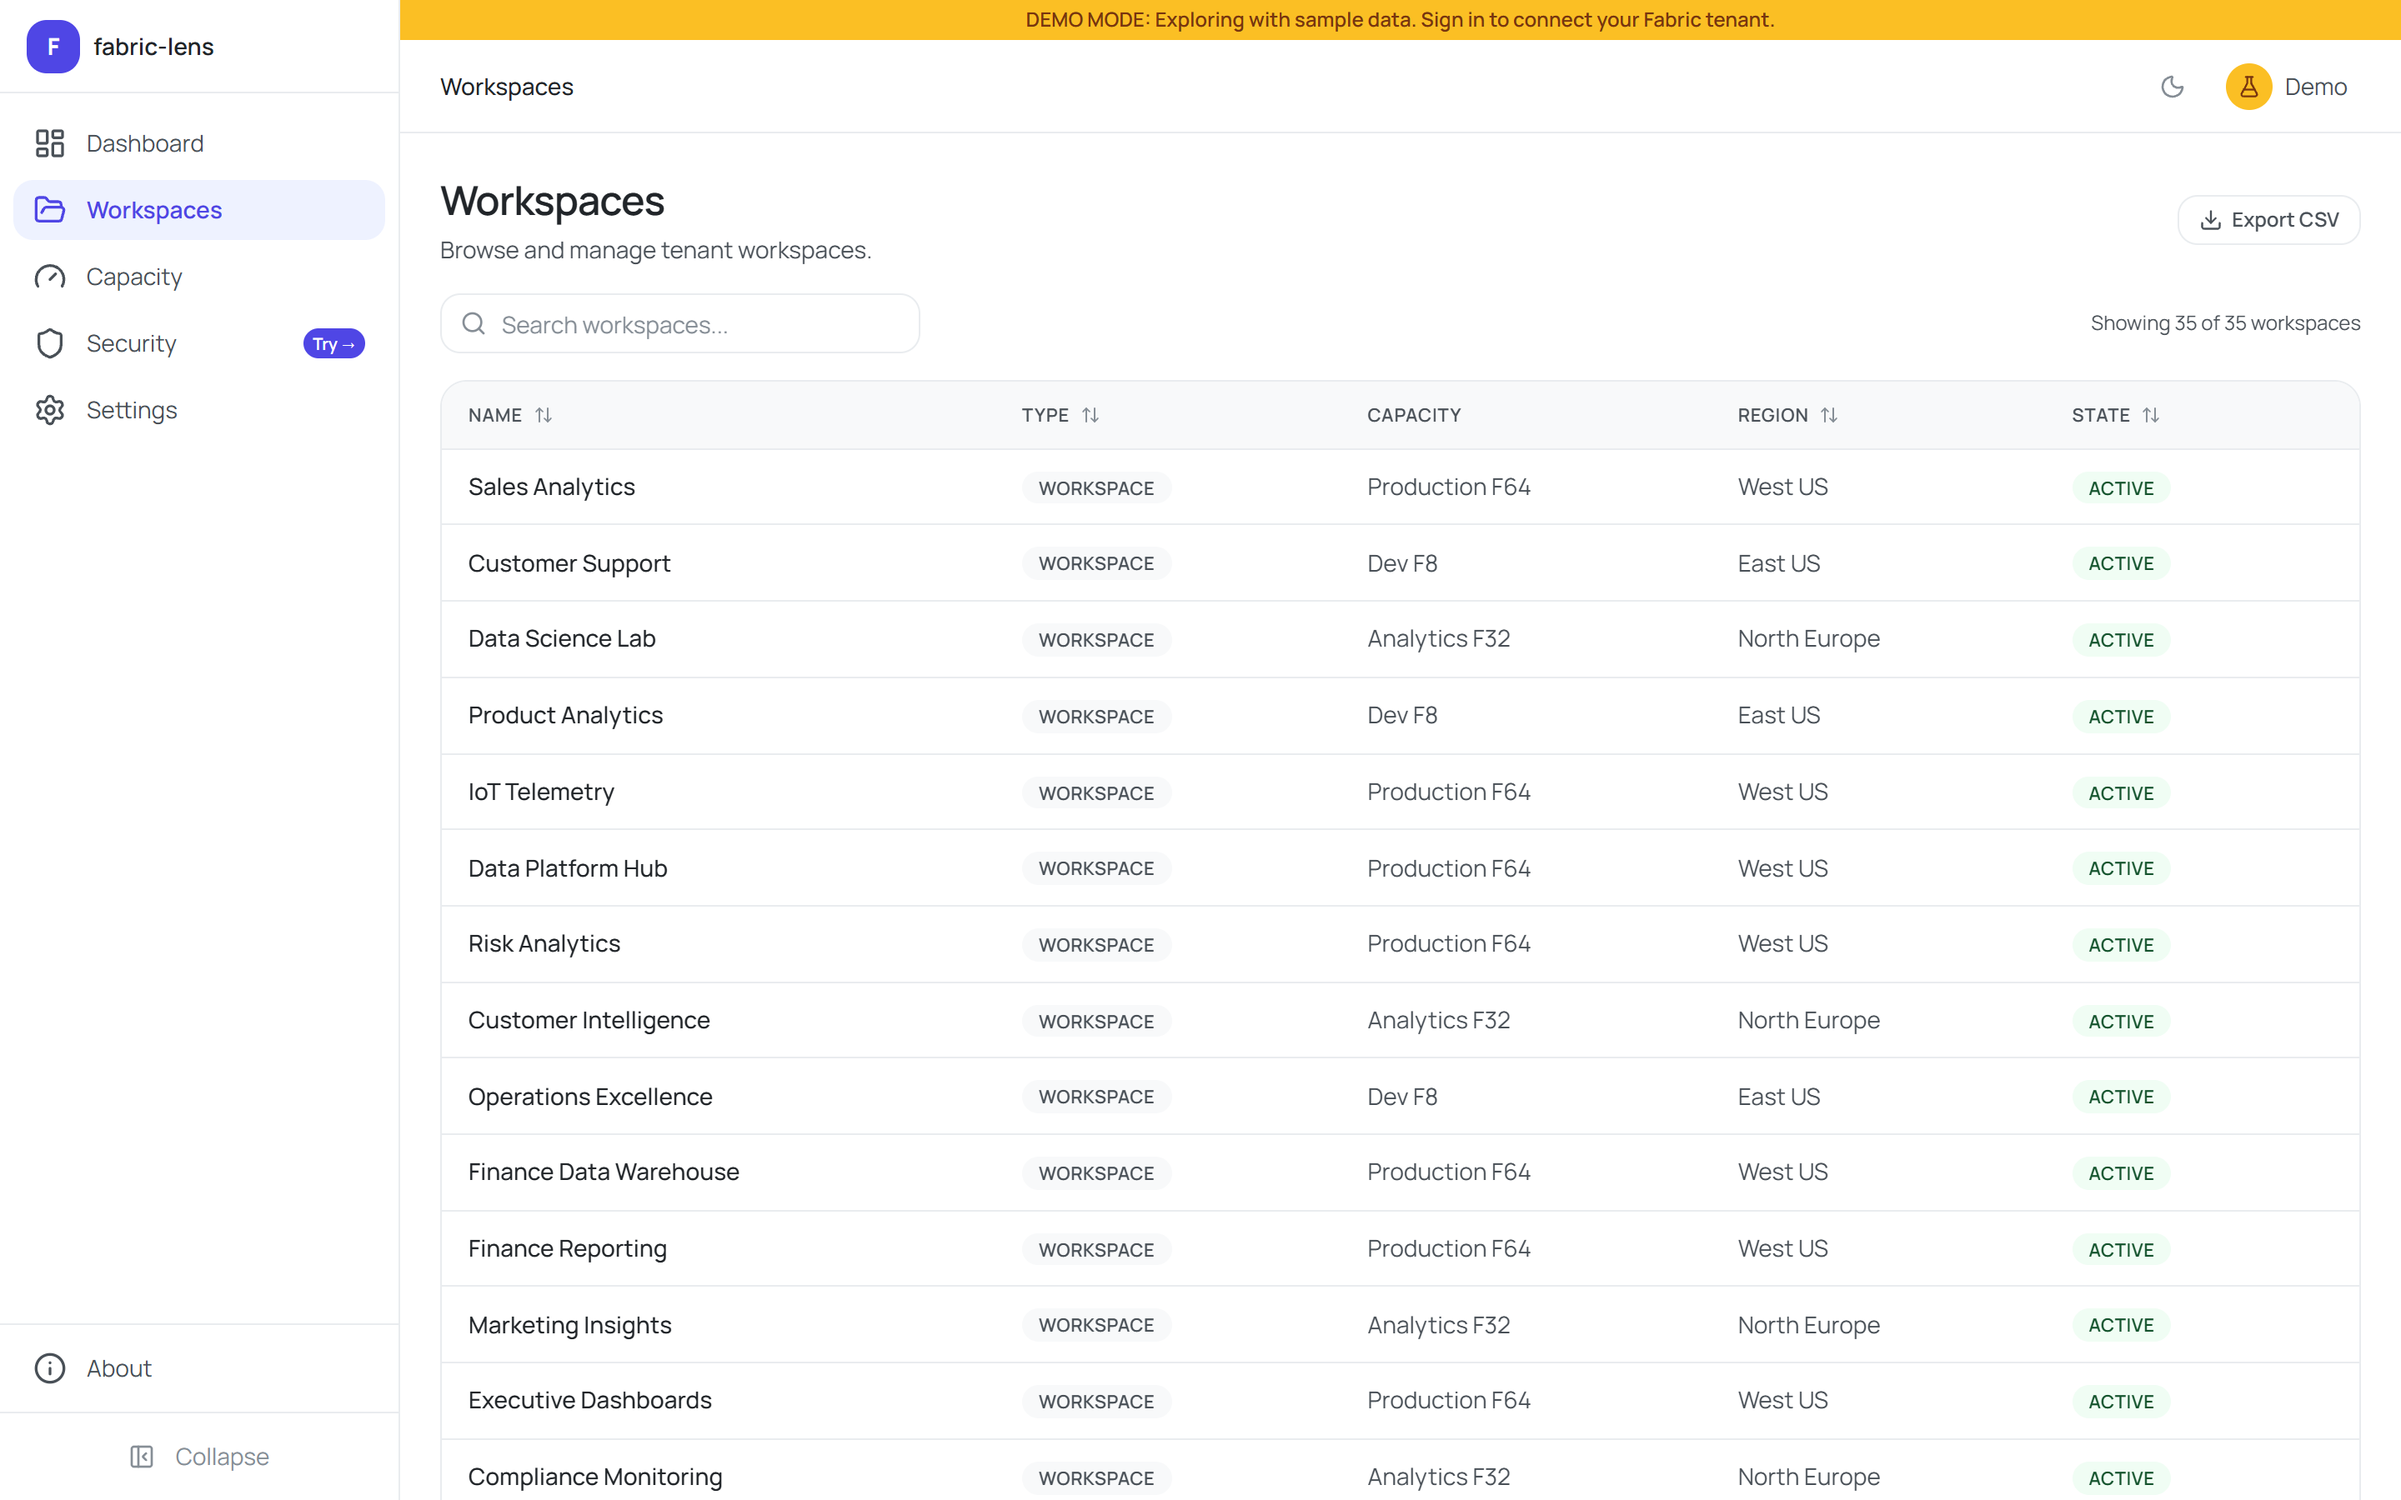
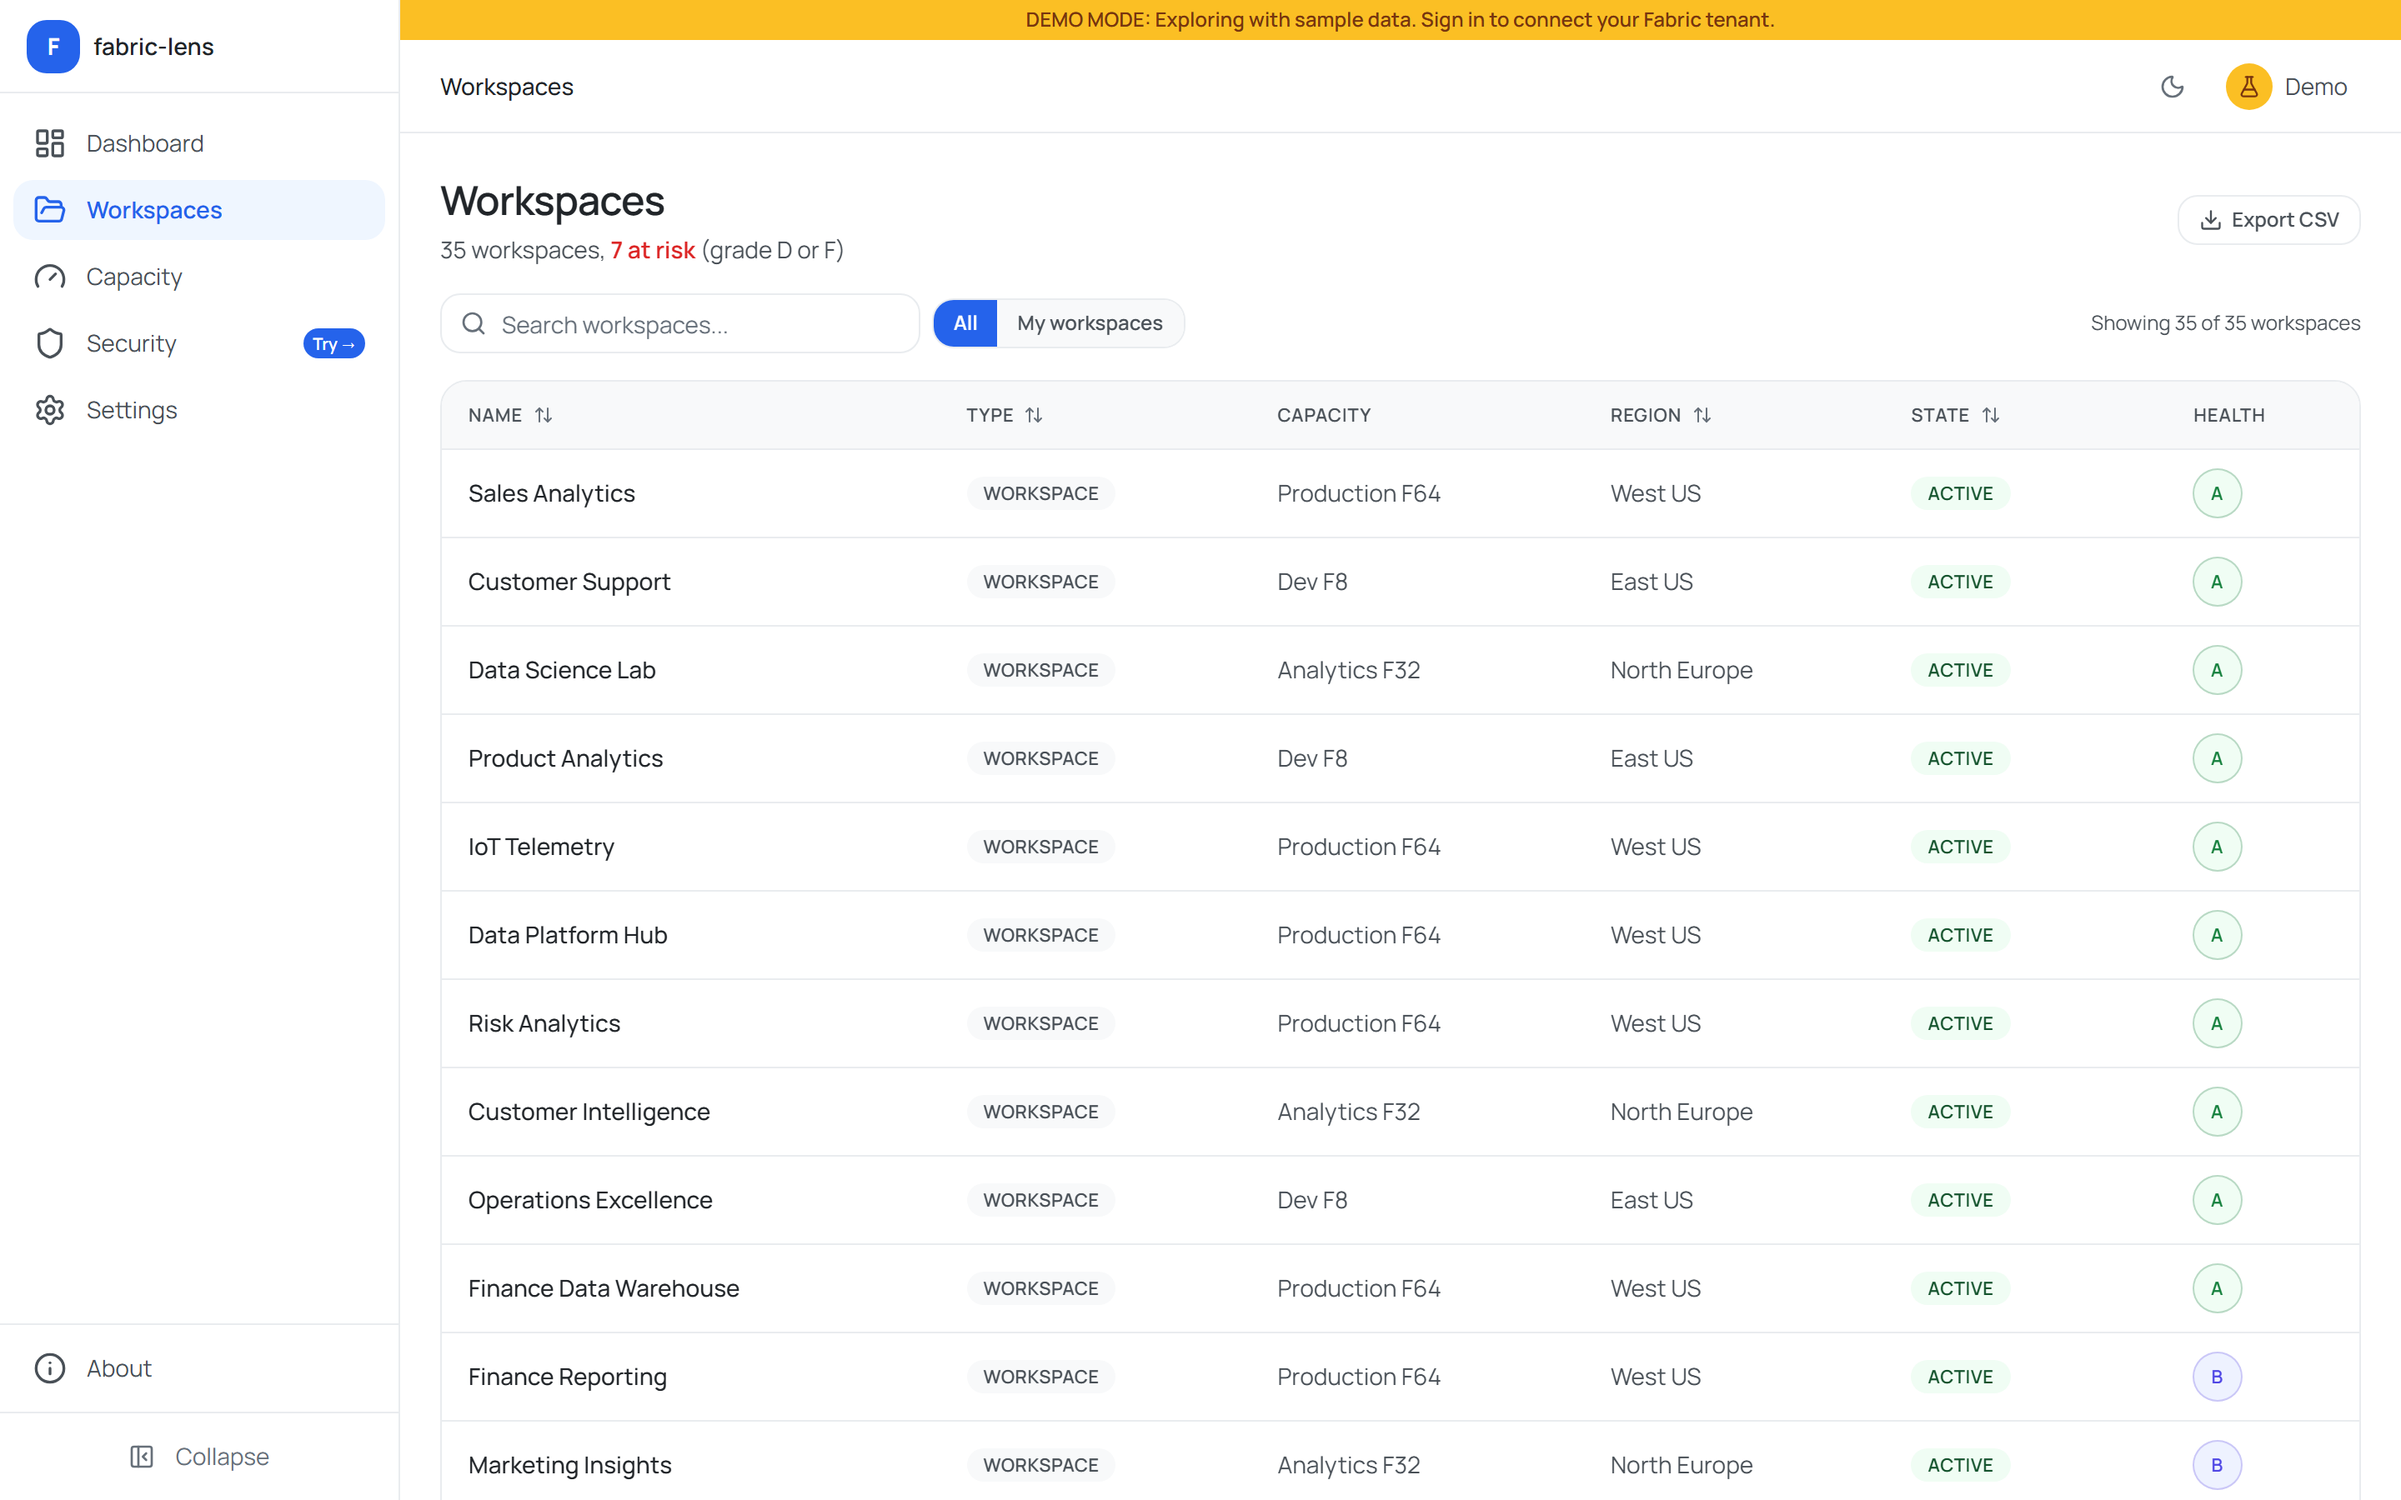
docs: refresh screenshots and README for v2

diff --git a/README.md b/README.md
@@ -4,17 +4,19 @@
 
 Fabric Lens is a standalone React SPA that connects directly to Microsoft Fabric REST APIs via MSAL.js authentication. No backend required; everything runs in your browser. Ships with a fully functional **demo mode** so you can explore immediately without an Azure tenant.
 
-[![MIT License](https://img.shields.io/badge/license-MIT-4F46E5.svg)](LICENSE)
-[![TypeScript](https://img.shields.io/badge/TypeScript-strict-4F46E5.svg)](tsconfig.app.json)
-[![React](https://img.shields.io/badge/React-19-4F46E5.svg)](package.json)
-[![Live Demo](https://img.shields.io/badge/demo-live-4F46E5.svg)](https://fabric-lens.com)
-[![Security Policy](https://img.shields.io/badge/security-policy-4F46E5.svg)](SECURITY.md)
+[![MIT License](https://img.shields.io/badge/license-MIT-2563EB.svg)](LICENSE)
+[![TypeScript](https://img.shields.io/badge/TypeScript-strict-2563EB.svg)](tsconfig.app.json)
+[![React](https://img.shields.io/badge/React-19-2563EB.svg)](package.json)
+[![Live Demo](https://img.shields.io/badge/demo-live-2563EB.svg)](https://fabric-lens.com)
+[![Security Policy](https://img.shields.io/badge/security-policy-2563EB.svg)](SECURITY.md)
 
 > **[Try the live demo](https://fabric-lens.com)** · Explore with sample data in your browser, no setup required.
 
 ---
 
 ## Screenshots
+
+![Landing page](docs/screenshots/landing.png)
 
 | Dashboard | Workspaces |
 |-----------|------------|
@@ -37,11 +39,11 @@ Fabric Lens is a standalone React SPA that connects directly to Microsoft Fabric
 
 | Feature | Description |
 |---------|-------------|
-| **Dashboard** | Tenant-wide overview with workspace/item/capacity stats, artifact distribution charts, governance issues, average health score, and the **Health Grid**: a dense color-coded tile map showing every workspace's health grade at a glance, sorted best to worst |
+| **Dashboard** | Answer-first layout: tenant health score, then the **Health Grid** (a dense color-coded tile map of every workspace's grade, worst first), then governance issues and a security summary. Distribution charts sit behind a fold |
 | **Workspace Explorer** | Browse, search, and drill into every workspace. Toggle between all workspaces and **My workspaces** to filter by your role assignments. View items, health grades, capacity assignments, OneLake endpoints, and Git status |
 | **Health Scoring** | Automated 100-point governance assessment per workspace across 9 checks: description, capacity, domain, Git, naming, active items, data layer, item count, and tag coverage |
 | **Capacity Monitor** | Track SKUs, regions, and states with tier-based badges. Cost calculator with **live Azure pricing** from the Azure Retail Prices API |
-| **Security Audit** | Cross-workspace role mapping with search, role filter chips, sortable columns, and pagination. **My workspaces** toggle narrows the pivot table to your own assignments. Flags over-permissioned users (Admin on 5+ workspaces). Expands Azure AD group memberships via Microsoft Graph (optional) |
+| **Security Audit** | Posture score and top findings lead, then four drill-in areas: Access, Sharing, Settings, Lifecycle. The full principal/workspace directory (search, role filter chips, sortable columns, pagination, **My workspaces** toggle) sits one level down. Flags over-permissioned users and expands Azure AD group memberships via Microsoft Graph (optional) |
 | **Tenant Settings Risk** | Surfaces enabled high-risk tenant-level settings (PublishToWeb, external sharing, etc.) with risk level badges. Requires Fabric Admin role |
 | **Widely Shared Objects** | Identifies org-wide shared artifacts: reports and semantic models accessible to the entire organization via shareable links |
 | **Inactive Workspace Detection** | Flags workspaces with no recorded activity in the past 7 days using the Power BI Activity Log API. Day-by-day API calls respect the same-day constraint |
@@ -51,7 +53,7 @@ Fabric Lens is a standalone React SPA that connects directly to Microsoft Fabric
 | **Multi-tenant** | Works with any Azure AD tenant. Sign in with your organization account; no per-tenant app registration required when using the hosted version |
 | **CSV Export** | Export workspace inventories and security audit data for offline analysis |
 | **Dark Mode** | Deep dark base (`#0D0F12`) with full semantic token support. Not pure black; creates depth without blue-navy tint |
-| **Demo Mode** | Realistic mock data (3 capacities, 35 workspaces, 200+ items across all 19 item types, 8 users, 4 groups) with no Azure credentials needed |
+| **Demo Mode** | Realistic mock data (3 capacities, 35 workspaces, 200+ items, 8 users, 4 groups) with no Azure credentials needed |
 
 ---
 
@@ -171,7 +173,7 @@ flowchart TB
     FC --> ARM["ARM API\nCapacity management"]
     FC --> Prices["Azure Retail Prices\npublic · no auth\n1 hr TTL cache"]
 
-    style Browser fill:#1a1b2e,stroke:#4F46E5,stroke-width:2px,color:#e2e8f0
+    style Browser fill:#1a1b2e,stroke:#2563EB,stroke-width:2px,color:#e2e8f0
     style Router fill:#312e81,stroke:#818cf8,color:#e2e8f0
     style Stores fill:#312e81,stroke:#818cf8,color:#e2e8f0
     style MSAL fill:#3730a3,stroke:#818cf8,color:#e2e8f0
@@ -222,21 +224,25 @@ src/
   store/          Zustand stores (workspace, capacity, security, ui,
                   tenantSettings, widelyShared, activity, domain)
   components/
-    layout/       AppShell, Sidebar, Header (demo-mode-aware)
+    layout/       AppShell (authenticated), MarketingShell (public), Sidebar, Header
+    marketing/    LandingPage, MarketingNav, MarketingFooter
     dashboard/    GovernanceIssuesPanel, HealthGrid, ScoreRing, SecurityQuickView
     workspace/    GovernanceIssues, HealthBadge, HealthDetail
-    shared/       DataTable, StatCard, SearchBar, EmptyState, ExportButton, ItemTypeBadge, ...
+    shared/       DataTable, StatCard, SearchBar, EmptyState, ExportButton, ItemTypeBadge,
+                  CollapsibleSection, ...
     charts/       ItemsByTypeChart, WorkspacesByCapacityChart
-    security/     AccessConcentrationChart, EffectiveAccessCard, SecurityFindingsPanel,
+    security/     SecurityAreaSection, AccessConcentrationChart, EffectiveAccessCard,
+                  SecurityFindingsPanel,
                   TenantSettingsRiskPanel, WidelySharedPanel, DomainGovernancePanel,
                   GhostWorkspacesPanel, ...
     report/       ReportCover, ExecutiveSummarySection, HealthSection, SecuritySection,
                   TenantSettingsSection, WidelySharedSection, GhostWorkspacesSection,
                   RecommendationsSection
   pages/          Dashboard, Workspaces, WorkspaceDetail, Capacity, Security, Settings,
-                  Report, About (public, no auth guard)
+                  Report, About (public, no auth guard). The landing page at `/` lives
+                  in components/marketing/
   utils/          healthScore, export (CSV), constants (single source of truth),
-                  ghostWorkspaces, tenantSettingRisks, domainGovernance,
+                  securityAreas, ghostWorkspaces, tenantSettingRisks, domainGovernance,
                   reportData, reportSummary
 ```
 
@@ -307,7 +313,7 @@ MIT. Use it, fork it, ship it.
 
 **Prasanth Sistla** · Senior Architect Consultant
 
-[![LinkedIn](https://img.shields.io/badge/LinkedIn-prasanthsistla-4F46E5?logo=linkedin)](https://www.linkedin.com/in/prasanthsistla/)
+[![LinkedIn](https://img.shields.io/badge/LinkedIn-prasanthsistla-2563EB?logo=linkedin)](https://www.linkedin.com/in/prasanthsistla/)
 
 ---
 
